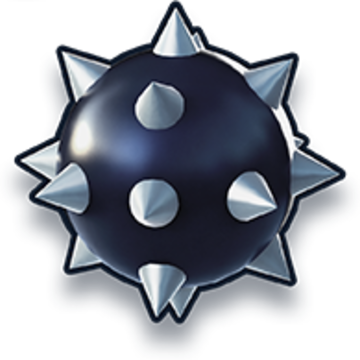
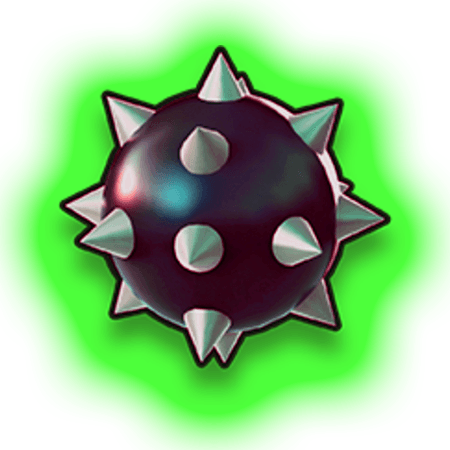
tune

diff --git a/src/components/props/Monster.js b/src/components/props/Monster.js
@@ -186,7 +186,7 @@ export default class Monster extends React.Component {
       if(baddy.dying) {
         this.baddies[index].dyingTime+=1;
         this.baddies[index].death.clear();
-        this.baddies[index].death.beginFill(0xff0000);
+        this.baddies[index].death.beginFill(0x18f601);
         this.baddies[index].death.drawCircle(this.baddies[index].x, this.baddies[index].y, this.baddies[index].dyingTime*30);
         this.baddies[index].death.endFill();
       } else {

diff --git a/src/components/props/HolySpaceBaby.js b/src/components/props/HolySpaceBaby.js
@@ -87,7 +87,7 @@ export default class HolySpaceBaby extends React.Component {
     window.addEventListener('mousemove', this.handleMouseMove);
     window.addEventListener('touchstart', this.handleTouch);
 
-    this.fireflyInterval = setInterval(this.updateParticipant, 200)
+    this.fireflyInterval = setInterval(this.updateParticipant, 100)
   }
 
   componentWillUnmount() {
